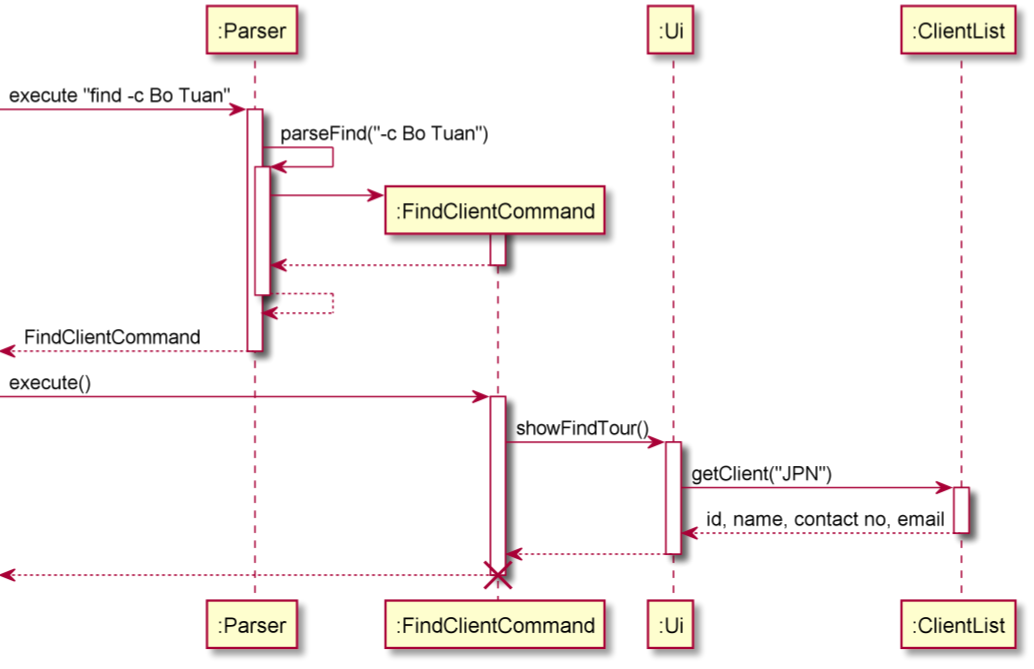
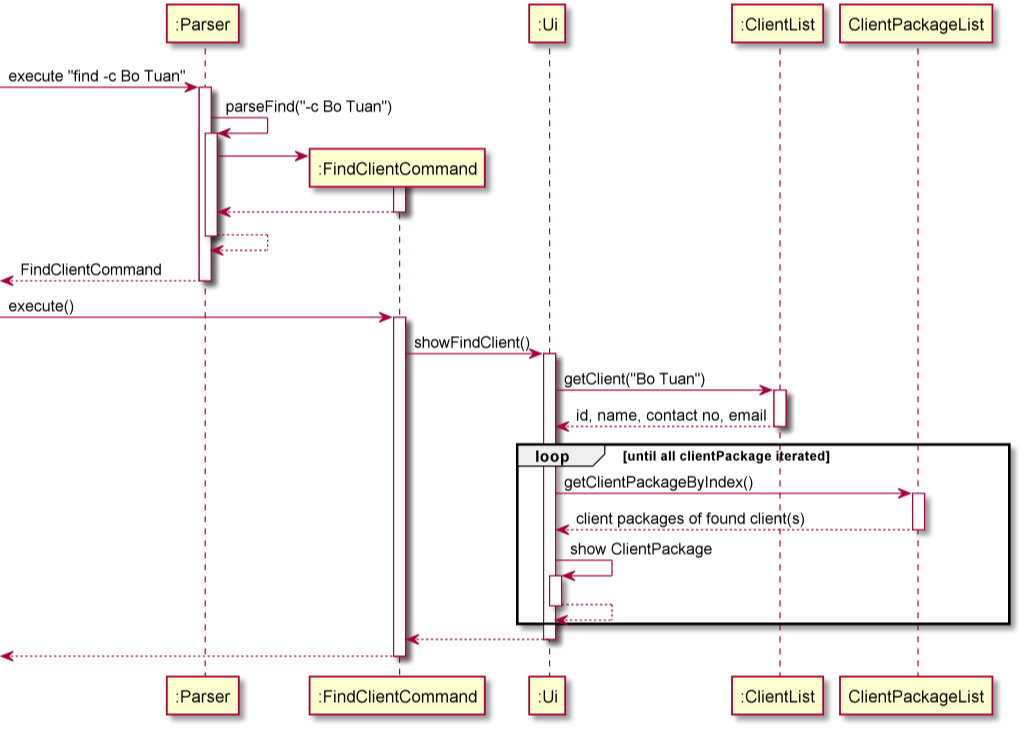
Commit Javadoc for some Ui functions, change to findclient UML

diff --git a/src/main/java/seedu/duke/Ui.java b/src/main/java/seedu/duke/Ui.java
@@ -195,8 +195,16 @@ public class Ui {
         show("Total Clients: " + count);
     }
 
-    public void showFindClient(ClientList clients, ClientPackageList clientPackages, String name) {
-        String lowercaseName = name.toLowerCase();
+    /**
+     * Ui response to FindClientCommand.
+     * Shows specific client(s) based on a susbtring, as well as the client packages they are a part of.
+     *
+     * @param clients the ClientList from which the clients are obtained from.
+     * @param clientPackages the ClientPackageList from which the client packages of the client are obtained from.
+     * @param substring the substring used to obtain the specific client(s).
+     */
+    public void showFindClient(ClientList clients, ClientPackageList clientPackages, String substring) {
+        String lowercaseName = substring.toLowerCase();
         int foundClients = 0;
         int count = clients.getClientCount();
         for (int i = 0; i < count; i++) {
@@ -215,6 +223,12 @@ public class Ui {
         }
     }
 
+    /**
+     * Shows clientPackages that a certain client is a part of.
+     *
+     * @param currClient the client which the shown clientPackages must contain.
+     * @param clientPackages the ClientPackageList from which the client packages of the client are obtained from.
+     */
     private void showFlightTourOfClient(Client currClient, ClientPackageList clientPackages) {
         ArrayList<ClientPackage> clientPackagesWithClient;
         clientPackagesWithClient = clientPackages.getClientPackageByClient(currClient);
@@ -243,6 +257,14 @@ public class Ui {
         show("Total Tours: " + count);
     }
 
+    /**
+     * Ui response to FindTourCommand.
+     * Shows specific tour based on an ID, as well as the subscribed clients for said tour.
+     *
+     * @param tours the TourList from which the tours are obtained from.
+     * @param clientPackages the ClientPackageList from which the subscribers of the tour are obtained from.
+     * @param id the ID used to find the specific tour.
+     */
     public void showFindTour(TourList tours, ClientPackageList clientPackages, String id)
             throws TourPlannerException {
         Tour foundTour = tours.getTourById(id);
@@ -434,9 +456,17 @@ public class Ui {
         show("Total Flights: " + count);
     }
 
-    public void showFindFlight(FlightList flights, ClientPackageList clientPackages, String code)
+    /**
+     * Ui response to FindFlightCommand.
+     * Shows specific flight based on an ID, as well as the passengers for said flight.
+     *
+     * @param flights the FlightList from which the flights are obtained from.
+     * @param clientPackages the ClientPackageList from which the passengers for the flight are obtained from.
+     * @param id the ID used to find the specific flight.
+     */
+    public void showFindFlight(FlightList flights, ClientPackageList clientPackages, String id)
             throws TourPlannerException {
-        Flight foundFlight = flights.getFlightById(code);
+        Flight foundFlight = flights.getFlightById(id);
         if (foundFlight != null) {
             show(FIND_SUCCESS_MESSAGE_LEFT + "flight " + FIND_MESSAGE_RIGHT);
             show(foundFlight + "\n" + "\n");

diff --git a/src/main/java/seedu/duke/commands/flights/FindFlightCommand.java b/src/main/java/seedu/duke/commands/flights/FindFlightCommand.java
@@ -3,16 +3,28 @@ package seedu.duke.commands.flights;
 import seedu.duke.TourPlannerException;
 import seedu.duke.commands.Command;
 
+/**
+ * Finds a flight based on a certain id.
+ */
 public class FindFlightCommand extends Command {
-    private final String code;
+    private final String id;
 
-    public FindFlightCommand(String code) {
-        this.code = code;
+    /**
+     * Class constructor for FindFlightCommand.
+     *
+     * @param id id used to determine which flight to find.
+     */
+    public FindFlightCommand(String id) {
+        this.id = id;
     }
 
+    /**
+     * Executes the finding of flight, as well as finding said flight's passengers.
+     * If there are no found flights, it will be shown to the user.
+     */
     public void execute() {
         try {
-            ui.showFindFlight(flights, clientPackages, code);
+            ui.showFindFlight(flights, clientPackages, id);
         } catch (TourPlannerException e) {
             System.out.println(e.getMessage());
         }

diff --git a/src/main/java/seedu/duke/commands/tours/FindTourCommand.java b/src/main/java/seedu/duke/commands/tours/FindTourCommand.java
@@ -3,16 +3,28 @@ package seedu.duke.commands.tours;
 import seedu.duke.TourPlannerException;
 import seedu.duke.commands.Command;
 
+/**
+ * Finds a tour based on a certain id.
+ */
 public class FindTourCommand extends Command {
-    private final String code;
+    private final String id;
 
-    public FindTourCommand(String code) {
-        this.code = code;
+    /**
+     * Class constructor for FindTourCommand.
+     *
+     * @param id id used to determine which tour to find.
+     */
+    public FindTourCommand(String id) {
+        this.id = id;
     }
 
+    /**
+     * Executes the finding of tour, as well as finding said tour's subscribers.
+     * If there are no found tours, it will be shown to the user.
+     */
     public void execute() {
         try {
-            ui.showFindTour(tours, clientPackages, code);
+            ui.showFindTour(tours, clientPackages, id);
         } catch (TourPlannerException e) {
             System.out.println(e.getMessage());
         }

diff --git a/src/main/java/seedu/duke/commands/clients/FindClientCommand.java b/src/main/java/seedu/duke/commands/clients/FindClientCommand.java
@@ -2,14 +2,26 @@ package seedu.duke.commands.clients;
 
 import seedu.duke.commands.Command;
 
+/**
+ * Finds client(s) based on a certain substring.
+ */
 public class FindClientCommand extends Command {
-    private final String name;
+    private final String substring;
 
-    public FindClientCommand(String name) {
-        this.name = name;
+    /**
+     * Class constructor for FindClientCommand.
+     *
+     * @param substring substring used to determine which client(s) to find.
+     */
+    public FindClientCommand(String substring) {
+        this.substring = substring;
     }
 
+    /**
+     * Executes the finding of client, as well as finding said client's packages.
+     * If there are no found clients, it will be shown to the user.
+     */
     public void execute() {
-        ui.showFindClient(clients, clientPackages, name);
+        ui.showFindClient(clients, clientPackages, substring);
     }
 }

diff --git a/src/main/java/seedu/duke/commands/clientpackages/ListClientPackageCommand.java b/src/main/java/seedu/duke/commands/clientpackages/ListClientPackageCommand.java
@@ -2,7 +2,13 @@ package seedu.duke.commands.clientpackages;
 
 import seedu.duke.commands.Command;
 
+/**
+ * Lists all client packages in the database.
+ */
 public class ListClientPackageCommand extends Command {
+    /**
+     * Executes the listing of client packages to the terminal.
+     */
     public void execute() {
         ui.showListClientPackage(clientPackages);
     }

diff --git a/src/main/java/seedu/duke/commands/clients/ListClientCommand.java b/src/main/java/seedu/duke/commands/clients/ListClientCommand.java
@@ -2,7 +2,13 @@ package seedu.duke.commands.clients;
 
 import seedu.duke.commands.Command;
 
+/**
+ * Lists all clients in the database.
+ */
 public class ListClientCommand extends Command {
+    /**
+     * Executes the listing of clients to the terminal.
+     */
     public void execute() {
         ui.showListClient(clients);
     }

diff --git a/src/main/java/seedu/duke/commands/flights/ListFlightCommand.java b/src/main/java/seedu/duke/commands/flights/ListFlightCommand.java
@@ -2,7 +2,13 @@ package seedu.duke.commands.flights;
 
 import seedu.duke.commands.Command;
 
+/**
+ * Lists all flights in the database.
+ */
 public class ListFlightCommand extends Command {
+    /**
+     * Executes the listing of flights to the terminal.
+     */
     public void execute() {
         ui.showListFlight(flights);
     }

diff --git a/src/main/java/seedu/duke/commands/tours/ListTourCommand.java b/src/main/java/seedu/duke/commands/tours/ListTourCommand.java
@@ -3,8 +3,13 @@ package seedu.duke.commands.tours;
 
 import seedu.duke.commands.Command;
 
+/**
+ * Lists all tours in the database.
+ */
 public class ListTourCommand extends Command {
-
+    /**
+     * Executes the listing of tours to the terminal.
+     */
     public void execute() {
         ui.showListTour(tours);
     }
